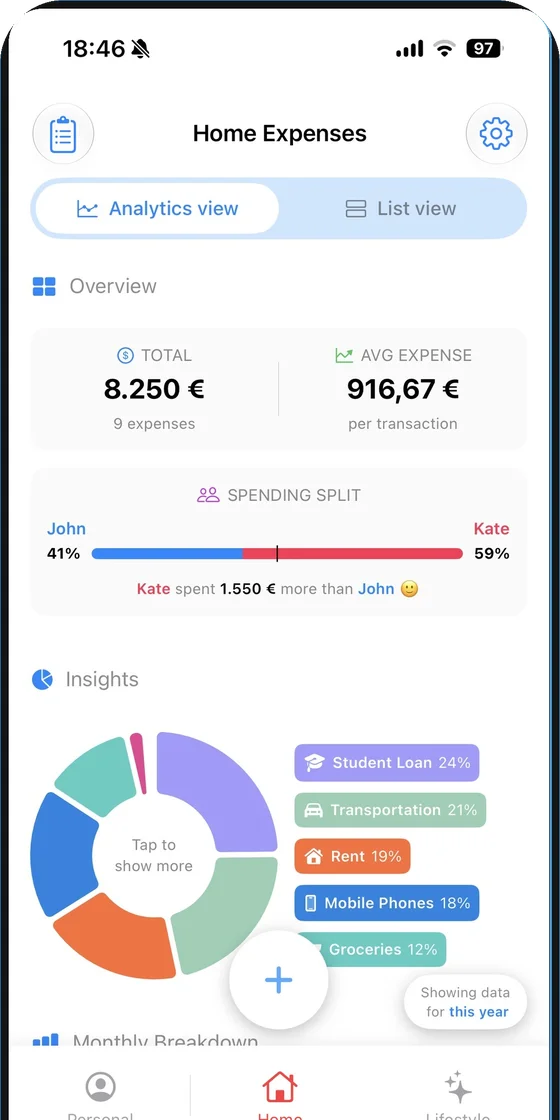
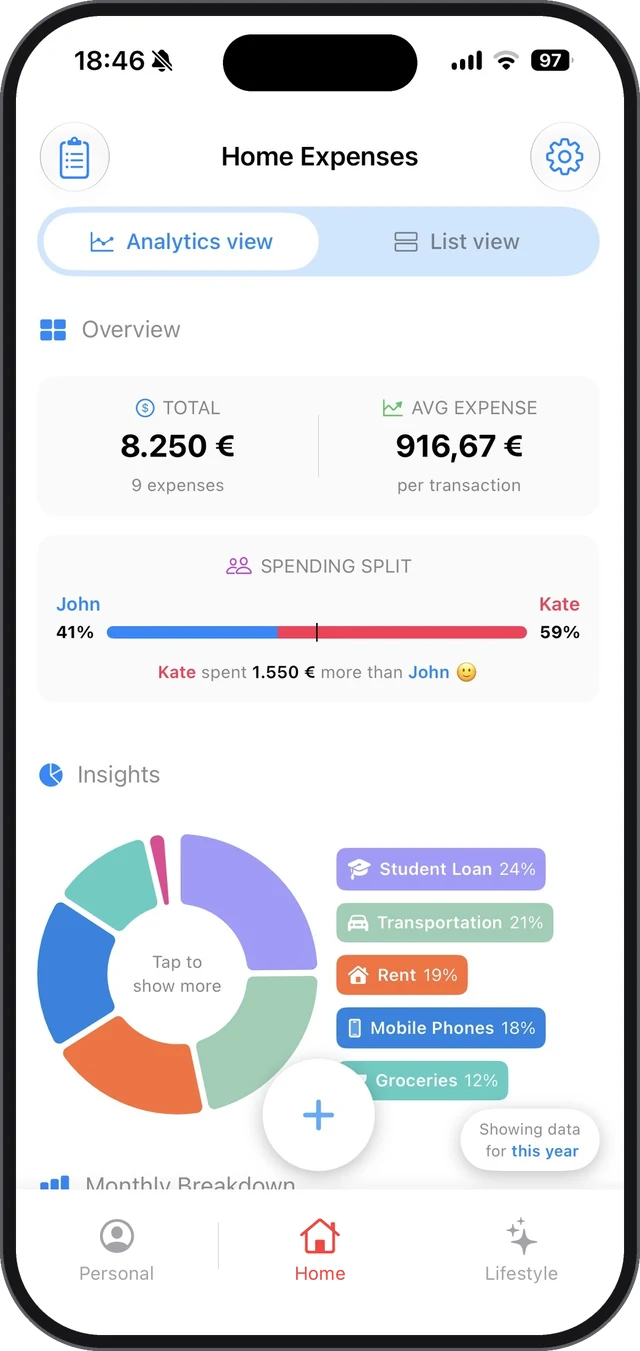
HoneyNest: sharper full-device hero phones showing the new tab bar
Claude-Session: https://claude.ai/code/session_019E7TpN1CUWiC9cFhGc7cZp

diff --git a/honeynest/index.html b/honeynest/index.html
@@ -57,18 +57,20 @@ a { color: var(--accent); }
 .store.soon { cursor: default; }
 .hero .note { font-size: 14px; opacity: .85; margin: 14px 0 0; }
 .hero .note a { color: #fff; font-weight: 600; text-underline-offset: 3px; white-space: nowrap; display: inline-block; margin-top: 6px; }
-.hero-art { position: relative; align-self: end; height: 540px; }
+.hero-art { position: relative; align-self: center; height: 640px; }
+.hero-art::before { content: ""; position: absolute; left: 50%; top: 50%; width: 520px; height: 520px; transform: translate(-50%, -50%); border-radius: 50%; background: radial-gradient(closest-side, rgba(255, 255, 255, .28), rgba(255, 255, 255, 0)); }
 .hero-art img { position: absolute; left: 50%; height: auto; filter: drop-shadow(0 30px 40px rgba(5, 30, 70, .45)); }
-.hero-art .back { width: 240px; top: 110px; transform: translateX(-88%) rotate(-6deg); }
-.hero-art .front { width: 270px; top: 56px; transform: translateX(-22%); }
+.hero-art .back { width: 250px; top: 86px; transform: translateX(-92%) rotate(-7deg); opacity: .96; }
+.hero-art .front { width: 284px; top: 20px; transform: translateX(-22%); }
 @media (max-width: 820px) {
   .hero .wrap { grid-template-columns: minmax(0, 1fr); gap: 0; text-align: center; }
   .hero .copy { padding: 48px 0 8px; }
   .hero .icon { margin: 0 auto 20px; }
   .hero .lead { margin: 0 auto 28px; }
-  .hero-art { height: 360px; }
-  .hero-art .back { width: 190px; top: 70px; }
-  .hero-art .front { width: 210px; top: 30px; }
+  .hero-art { height: 480px; }
+  .hero-art::before { width: 360px; height: 360px; }
+  .hero-art .back { width: 180px; top: 64px; }
+  .hero-art .front { width: 214px; top: 12px; }
 }
 
 /* ---------- Sections ---------- */
@@ -161,8 +163,8 @@ footer .love { margin-top: 8px; } footer .love span { color: #e2667a; }
     <p class="note">Free to download. For iPhone.<br><a href="guides/">Couples money guides</a></p>
    </div>
    <div class="hero-art">
-     <img class="back" src="img/phone-see.webp" alt="" width="560" height="1120">
-     <img class="front" src="img/phone-share.webp" alt="HoneyNest showing shared Home expenses and who paid each one" width="560" height="1120">
+     <img class="back" src="img/phone-see.webp?v=2" alt="" width="640" height="1351">
+     <img class="front" src="img/phone-share.webp?v=2" alt="HoneyNest showing shared Home expenses, who paid each one, and the Personal, Home and Lifestyle tabs" width="640" height="1351" fetchpriority="high">
    </div>
   </div>
 </header>
